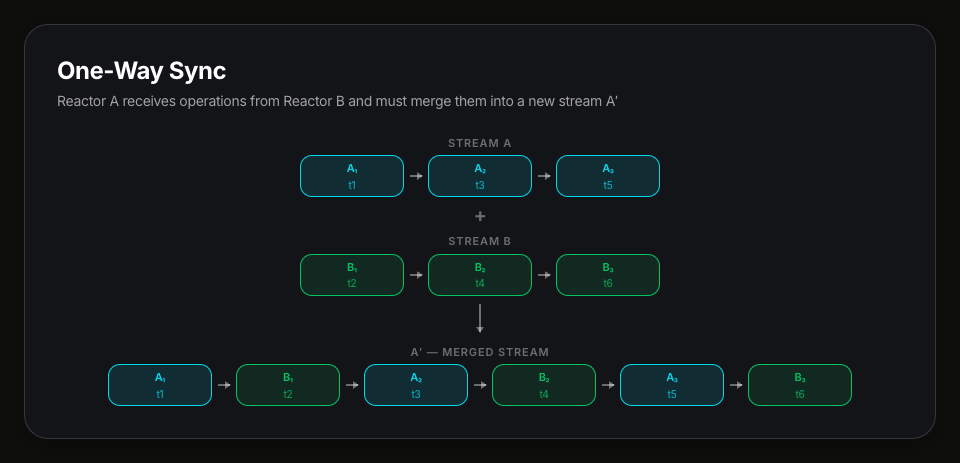
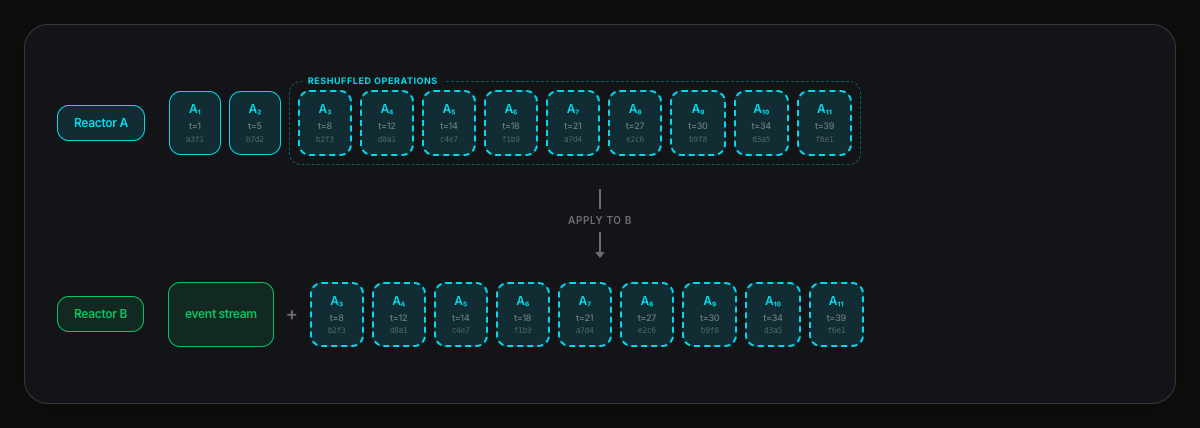
one way sync updates

diff --git a/pages/one-way-sync.html b/pages/one-way-sync.html
@@ -9,7 +9,7 @@
   <link rel="stylesheet" href="../css/base.css">
   <link rel="stylesheet" href="../css/components.css">
   <style>
-    .frame { max-width: 960px; }
+    .frame { max-width: 1200px; }
     .card { height: auto; }
     .card-body { flex: none; }
 
@@ -18,161 +18,173 @@
       border: 1px solid var(--border-glass);
       border-radius: var(--radius-md);
       padding: var(--space-sm) var(--space-md);
-      font-size: 11px;
+      font-size: 12px;
       font-weight: var(--font-weight-semibold);
       text-align: center;
       white-space: nowrap;
-      width: 104px;
-      height: 42px;
-      display: flex;
-      flex-direction: column;
-      align-items: center;
-      justify-content: center;
-      flex-shrink: 0;
     }
-    .box.accent-cyan   { border-color: var(--accent-cyan);   background: var(--accent-cyan-bg);   color: var(--accent-cyan); }
-    .box.accent-green  { border-color: var(--accent-green);  background: var(--accent-green-bg);  color: var(--accent-green); }
+    .box.accent-cyan   { border-color: var(--accent-cyan);  background: var(--accent-cyan-bg);  color: var(--accent-cyan); }
+    .box.accent-green  { border-color: var(--accent-green); background: var(--accent-green-bg); color: var(--accent-green); }
+    .box.accent-new {
+      border: 2px dashed var(--accent-cyan);
+      background: var(--accent-cyan-bg);
+      color: var(--accent-cyan);
+    }
 
-    .box .ts {
-      font-size: 10px;
+    .ts {
+      font-size: 9px;
+      color: var(--text-muted);
       font-weight: var(--font-weight-medium);
+      display: block;
+      margin-top: 1px;
+    }
+
+    .hash {
+      font-size: 8px;
+      color: var(--text-muted);
+      font-family: var(--font-mono, 'SF Mono', 'Fira Code', monospace);
+      font-weight: var(--font-weight-medium);
+      display: block;
       opacity: 0.7;
       margin-top: 1px;
     }
 
-    /* Stream row — horizontal chain of boxes */
-    .stream-row {
+    .arrow-down {
       display: flex;
+      flex-direction: column;
       align-items: center;
-      justify-content: center;
-      gap: 6px;
+      margin: var(--space-lg) 0;
     }
-
-    .stream-label {
-      font-size: 11px;
-      font-weight: var(--font-weight-semibold);
-      text-transform: uppercase;
-      letter-spacing: 0.08em;
-      color: var(--text-muted);
-      text-align: center;
-      margin-bottom: var(--space-xs);
-    }
-
-    /* Horizontal arrow between boxes */
-    .h-arrow {
-      width: 12px;
-      height: 2px;
-      background: var(--text-muted);
-      position: relative;
-      flex-shrink: 0;
-    }
-    .h-arrow::after {
-      content: '';
-      position: absolute;
-      right: -1px;
-      top: 50%;
-      transform: translateY(-50%);
-      border-top: 4px solid transparent;
-      border-bottom: 4px solid transparent;
-      border-left: 6px solid var(--text-muted);
-    }
-
-    /* Vertical connector sections */
-    .connector-down {
-      display: flex;
-      justify-content: center;
-      align-items: center;
-      padding: var(--space-sm) 0;
-    }
-
-    .v-arrow-down {
+    .arrow-down-line {
       width: 2px;
-      height: 28px;
+      height: 20px;
       background: var(--text-muted);
-      position: relative;
     }
-    .v-arrow-down::after {
-      content: '';
-      position: absolute;
-      bottom: -1px;
-      left: 50%;
-      transform: translateX(-50%);
-      border-left: 4px solid transparent;
-      border-right: 4px solid transparent;
+    .arrow-down-label {
+      font-size: 10px;
+      font-weight: var(--font-weight-semibold);
+      color: var(--text-muted);
+      text-transform: uppercase;
+      letter-spacing: 0.06em;
+      margin: var(--space-xs) 0;
+    }
+    .arrow-down-head {
+      width: 0;
+      height: 0;
+      border-left: 5px solid transparent;
+      border-right: 5px solid transparent;
       border-top: 6px solid var(--text-muted);
     }
 
+    /* Row with reactor label on the left and stream on the right */
+    .reactor-row {
+      display: flex;
+      align-items: center;
+      gap: var(--space-lg);
+    }
+    .reactor-label {
+      flex-shrink: 0;
+      padding: var(--space-sm) var(--space-md);
+      font-size: 12px;
+    }
+
+    .stream {
+      display: flex;
+      gap: var(--space-sm);
+      flex-wrap: nowrap;
+      align-items: center;
+      flex: 1;
+    }
+
     .plus-sign {
-      font-size: 20px;
+      font-size: 18px;
       font-weight: var(--font-weight-semibold);
       color: var(--text-muted);
       line-height: 1;
+      padding: 0 var(--space-xs);
     }
 
-    .merge-label {
-      font-size: 11px;
-      font-weight: var(--font-weight-semibold);
+    .event-stream-box {
+      align-self: stretch;
+      display: flex;
+      align-items: center;
+      justify-content: center;
+    }
+
+    /* Grouping around the ops being forwarded */
+    .forward-group {
+      display: flex;
+      gap: var(--space-sm);
+      align-items: center;
+      padding: var(--space-sm);
+      border: 1px dashed rgba(0, 209, 209, 0.4);
+      border-radius: var(--radius-md);
+      position: relative;
+    }
+    .forward-group-label {
+      position: absolute;
+      top: -8px;
+      left: 12px;
+      background: var(--bg-card, var(--bg-elevated));
+      padding: 0 6px;
+      font-size: 9px;
+      font-weight: var(--font-weight-bold);
+      color: var(--accent-cyan);
       text-transform: uppercase;
-      letter-spacing: 0.08em;
-      color: var(--text-muted);
-      text-align: center;
-      margin: var(--space-xs) 0;
+      letter-spacing: 0.06em;
     }
-
   </style>
 </head>
 <body>
   <div class="frame">
     <div class="card">
-      <h2 class="card-title">One-Way Sync</h2>
-      <p class="card-subtitle">Reactor A receives operations from Reactor B and must merge them into a new stream A&prime;</p>
+      <div class="card-body" style="padding-top: 24px; padding-bottom: 24px;">
 
-      <div class="card-body">
-
-        <!-- Stream A (top) -->
-        <div class="stream-label">Stream A</div>
-        <div class="stream-row">
-          <div class="box accent-cyan">A₁<span class="ts">t1</span></div>
-          <div class="h-arrow"></div>
-          <div class="box accent-cyan">A₂<span class="ts">t3</span></div>
-          <div class="h-arrow"></div>
-          <div class="box accent-cyan">A₃<span class="ts">t5</span></div>
+        <!-- Reactor A stream -->
+        <div class="reactor-row">
+          <div class="box accent-cyan reactor-label">Reactor A</div>
+          <div class="stream">
+            <div class="box accent-cyan">A₁ <span class="ts">t=1</span><span class="hash">a3f1</span></div>
+            <div class="box accent-cyan">A₂ <span class="ts">t=5</span><span class="hash">b7d2</span></div>
+            <div class="forward-group">
+              <div class="forward-group-label">reshuffled operations</div>
+              <div class="box accent-new">A₃ <span class="ts">t=8</span><span class="hash">b2f3</span></div>
+              <div class="box accent-new">A₄ <span class="ts">t=12</span><span class="hash">d8a1</span></div>
+              <div class="box accent-new">A₅ <span class="ts">t=14</span><span class="hash">c4e7</span></div>
+              <div class="box accent-new">A₆ <span class="ts">t=18</span><span class="hash">f1b9</span></div>
+              <div class="box accent-new">A₇ <span class="ts">t=21</span><span class="hash">a7d4</span></div>
+              <div class="box accent-new">A₈ <span class="ts">t=27</span><span class="hash">e2c6</span></div>
+              <div class="box accent-new">A₉ <span class="ts">t=30</span><span class="hash">b9f8</span></div>
+              <div class="box accent-new">A₁₀ <span class="ts">t=34</span><span class="hash">d3a5</span></div>
+              <div class="box accent-new">A₁₁ <span class="ts">t=39</span><span class="hash">f6e1</span></div>
+            </div>
+          </div>
         </div>
 
-        <!-- Plus sign -->
-        <div class="connector-down">
-          <div class="plus-sign">+</div>
+        <!-- Arrow -->
+        <div class="arrow-down">
+          <div class="arrow-down-line"></div>
+          <div class="arrow-down-label">apply to B</div>
+          <div class="arrow-down-line"></div>
+          <div class="arrow-down-head"></div>
         </div>
 
-        <!-- Stream B -->
-        <div class="stream-label">Stream B</div>
-        <div class="stream-row">
-          <div class="box accent-green">B₁<span class="ts">t2</span></div>
-          <div class="h-arrow"></div>
-          <div class="box accent-green">B₂<span class="ts">t4</span></div>
-          <div class="h-arrow"></div>
-          <div class="box accent-green">B₃<span class="ts">t6</span></div>
-        </div>
-
-        <!-- Arrow down -->
-        <div class="connector-down">
-          <div class="v-arrow-down"></div>
-        </div>
-
-        <!-- Merged stream A′ (bottom) -->
-        <div class="merge-label">A&prime; &mdash; merged stream</div>
-        <div class="stream-row">
-          <div class="box accent-cyan">A₁<span class="ts">t1</span></div>
-          <div class="h-arrow"></div>
-          <div class="box accent-green">B₁<span class="ts">t2</span></div>
-          <div class="h-arrow"></div>
-          <div class="box accent-cyan">A₂<span class="ts">t3</span></div>
-          <div class="h-arrow"></div>
-          <div class="box accent-green">B₂<span class="ts">t4</span></div>
-          <div class="h-arrow"></div>
-          <div class="box accent-cyan">A₃<span class="ts">t5</span></div>
-          <div class="h-arrow"></div>
-          <div class="box accent-green">B₃<span class="ts">t6</span></div>
+        <!-- Reactor B stream -->
+        <div class="reactor-row">
+          <div class="box accent-green reactor-label">Reactor B</div>
+          <div class="stream">
+            <div class="box accent-green event-stream-box">event stream</div>
+            <div class="plus-sign">+</div>
+            <div class="box accent-new">A₃ <span class="ts">t=8</span><span class="hash">b2f3</span></div>
+            <div class="box accent-new">A₄ <span class="ts">t=12</span><span class="hash">d8a1</span></div>
+            <div class="box accent-new">A₅ <span class="ts">t=14</span><span class="hash">c4e7</span></div>
+            <div class="box accent-new">A₆ <span class="ts">t=18</span><span class="hash">f1b9</span></div>
+            <div class="box accent-new">A₇ <span class="ts">t=21</span><span class="hash">a7d4</span></div>
+            <div class="box accent-new">A₈ <span class="ts">t=27</span><span class="hash">e2c6</span></div>
+            <div class="box accent-new">A₉ <span class="ts">t=30</span><span class="hash">b9f8</span></div>
+            <div class="box accent-new">A₁₀ <span class="ts">t=34</span><span class="hash">d3a5</span></div>
+            <div class="box accent-new">A₁₁ <span class="ts">t=39</span><span class="hash">f6e1</span></div>
+          </div>
         </div>
 
       </div>
